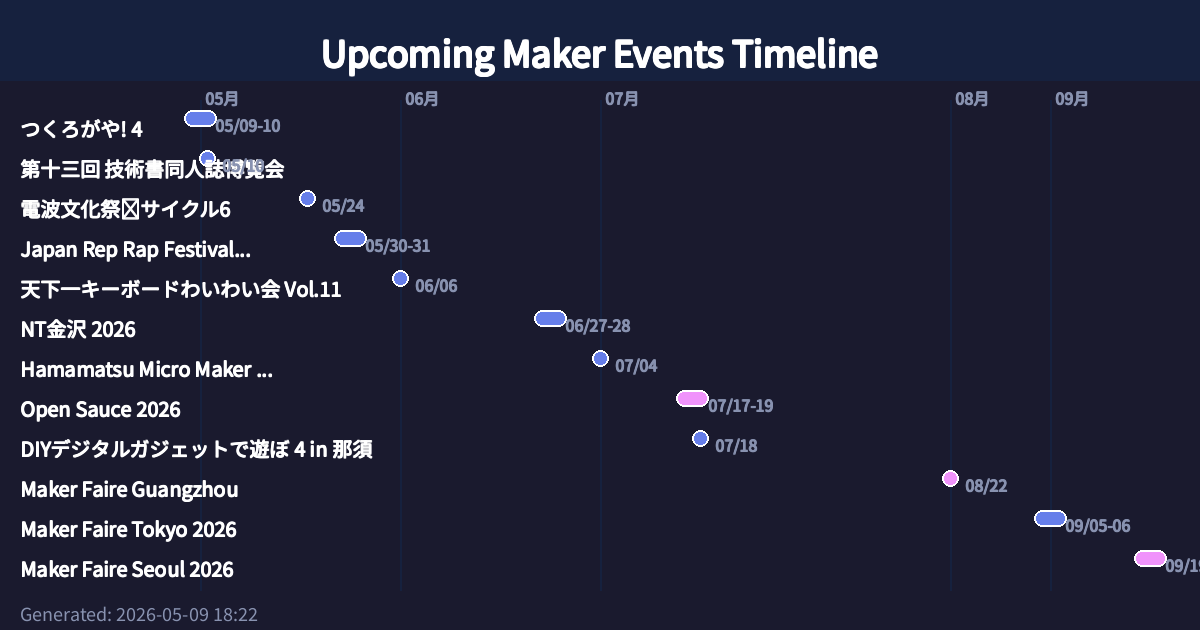
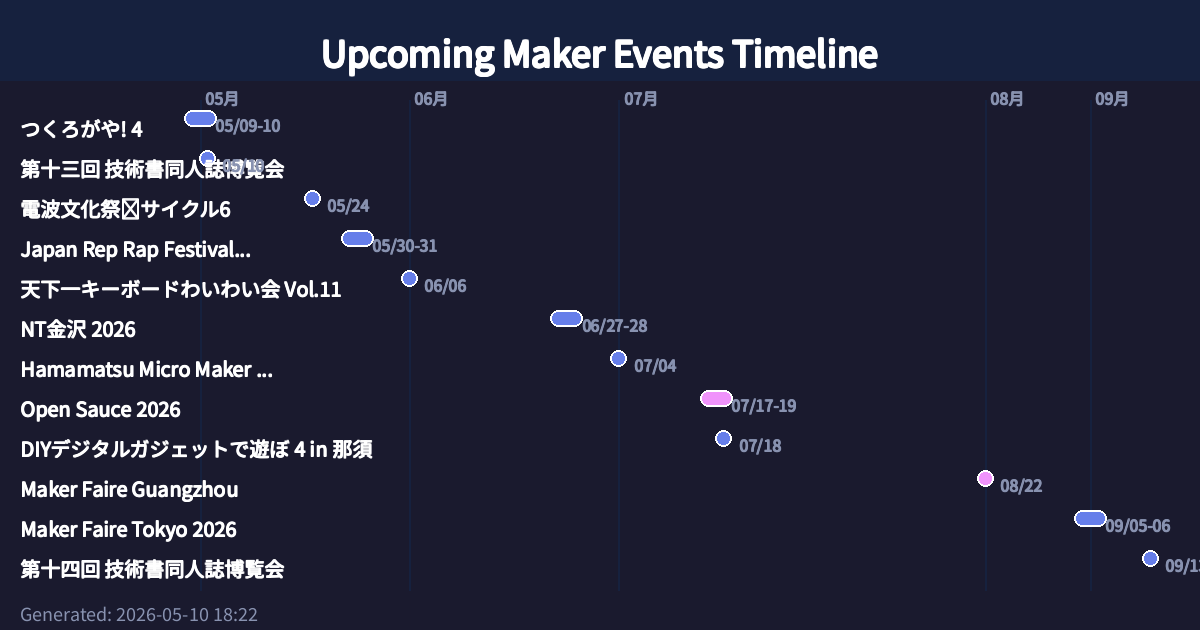
サイト更新
🤖 自動更新 - 2026-05-10 18:22:42 UTC

Generated with [Claude Code](https://claude.ai/code)

diff --git a/index.html b/index.html
@@ -7,7 +7,7 @@
     
     <!-- OGP Meta Tags for Social Media Sharing -->
     <meta property="og:title" content="Upcoming Maker Events | 今後のメイカーイベント">
-    <meta property="og:description" content="世界中のメイカーイベント情報を一覧で確認。Maker Faire、NT、技術書典など19件のイベント情報を掲載。 | Discover upcoming maker events worldwide including Maker Faires, technical conferences, and maker gatherings.">
+    <meta property="og:description" content="世界中のメイカーイベント情報を一覧で確認。Maker Faire、NT、技術書典など20件のイベント情報を掲載。 | Discover upcoming maker events worldwide including Maker Faires, technical conferences, and maker gatherings.">
     <meta property="og:type" content="website">
     <meta property="og:url" content="https://shinichi-ohki.github.io/maker_event/">
     <meta property="og:image" content="https://shinichi-ohki.github.io/maker_event/ogp_image.png">
@@ -17,11 +17,11 @@
     <!-- Twitter Card -->
     <meta name="twitter:card" content="summary_large_image">
     <meta name="twitter:title" content="Upcoming Maker Events | 今後のメイカーイベント">
-    <meta name="twitter:description" content="世界中のメイカーイベント情報を一覧で確認。19件のイベント情報を掲載。">
+    <meta name="twitter:description" content="世界中のメイカーイベント情報を一覧で確認。20件のイベント情報を掲載。">
     <meta name="twitter:image" content="https://shinichi-ohki.github.io/maker_event/ogp_image.png">
     
     <!-- Standard Meta Tags -->
-    <meta name="description" content="世界中のメイカーイベント情報を一覧で確認。Maker Faire、NT、技術書典など19件のイベント情報を掲載。">
+    <meta name="description" content="世界中のメイカーイベント情報を一覧で確認。Maker Faire、NT、技術書典など20件のイベント情報を掲載。">
     <meta name="keywords" content="Maker Faire, メイカーイベント, 技術イベント, NT, 技術書典, DIY, ハードウェア, プログラミング">
     <meta name="author" content="Maker Events Team">
     <style>
@@ -374,6 +374,25 @@
                 <div class="event-card">
                     <div class="event-image">
                         
+                            <img src="https://cdn.image.st-hatena.com/image/scale/5f915d720881a4602c84ca4f526fdceafc2813ba/backend=imagemagick;enlarge=0;height=1000;version=1;width=1200/https%3A%2F%2Fcdn.user.blog.st-hatena.com%2Fdefault_entry_og_image%2F154809410%2F1573813910434408" alt="第十四回 技術書同人誌博覧会" style="width: 100%; height: 100%; object-fit: cover;">
+                        
+                    </div>
+                    <div class="event-content">
+                        
+                        <div class="event-date">2026年09月13日</div>
+                        
+                        <h3 class="event-title">第十四回 技術書同人誌博覧会</h3>
+                        <p class="event-location">大田区産業プラザPiO (1F大展示ホール), 東京, Japan</p>
+                        
+                        
+                        <a href="https://blog.gishohaku.dev/" class="event-link" target="_blank">詳細を見る</a>
+                        
+                    </div>
+                </div>
+                
+                <div class="event-card">
+                    <div class="event-image">
+                        
                             🛠️
                         
                     </div>
@@ -583,7 +602,7 @@
     </div>
     
     <footer style="text-align: center; margin-top: 1rem; padding: 1rem; color: #666; font-size: 0.8rem; border-top: 1px solid #e0e0e0;">
-        <p>Last updated: 2026-05-10 03:22 JST</p>
+        <p>Last updated: 2026-05-11 03:22 JST</p>
     </footer>
 </body>
 </html>